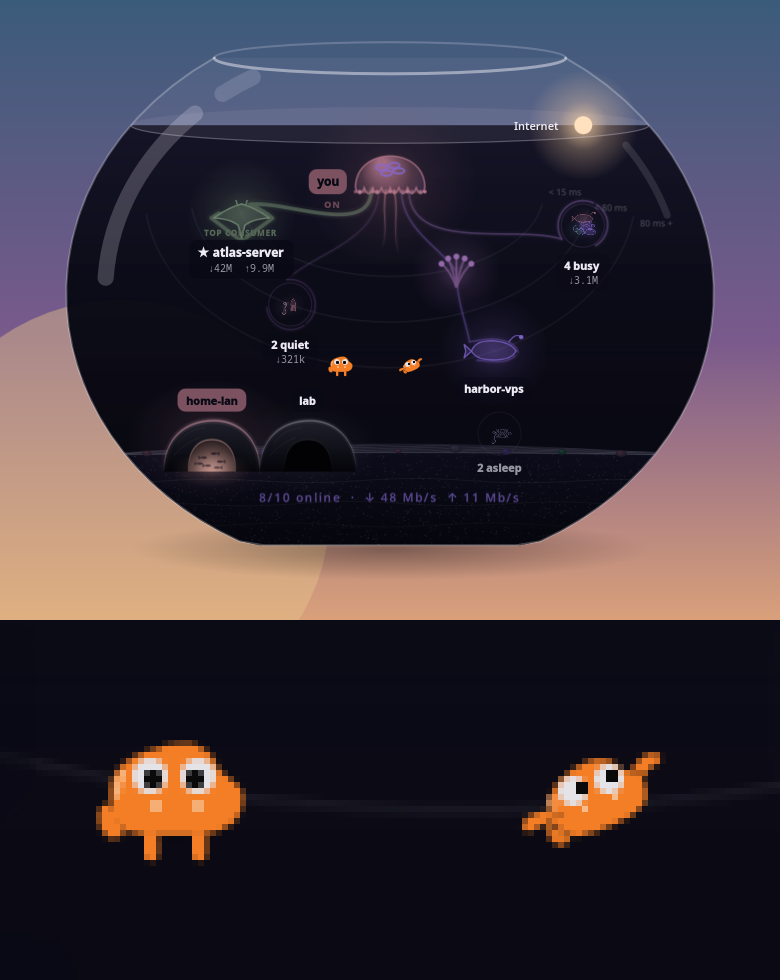
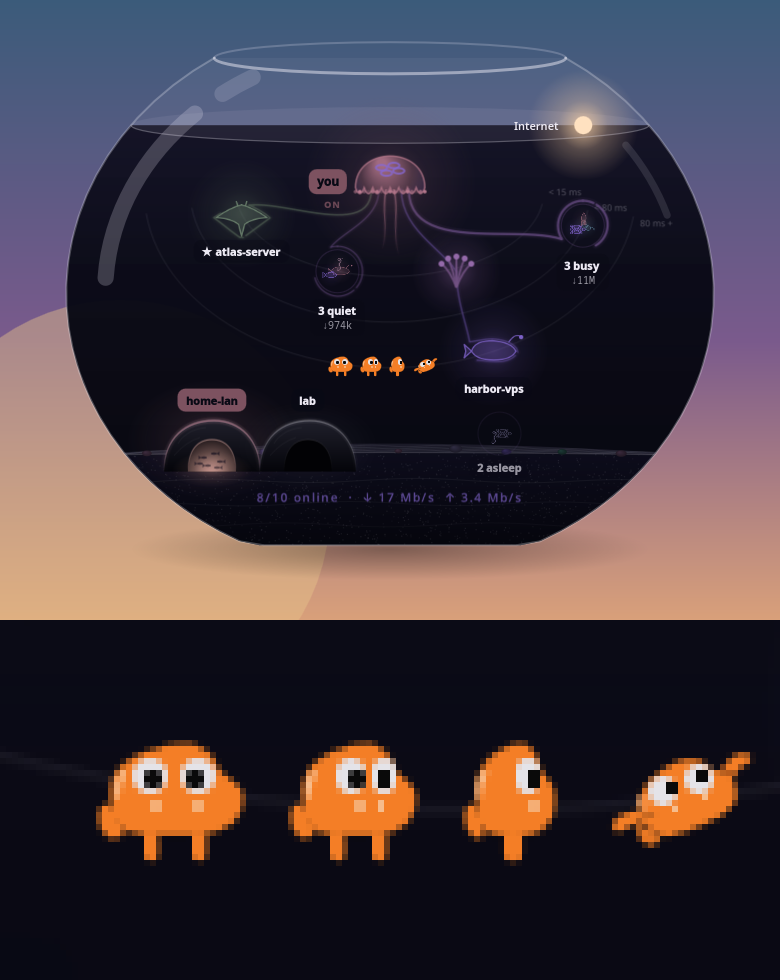
docs(design): Darwin turned views inside the body line, profile legs, 25 px variants, one 4x scale, four views in the three scenes (NAK-353)

diff --git a/docs/design/darwin/build.py b/docs/design/darwin/build.py
@@ -52,11 +52,10 @@ def chain(pts):
     return d
 
 
-def outline(pts, centre, a0, harmonics, xs=lambda x: x):
-    """Smooth closed outline from the measured rays. The 48 radii are a
-    periodic function of the angle: keeping only its low harmonics removes the
-    1 px wobble of the measurement, and 24 anchors with analytic tangents give
-    one continuous curve with no corner (see README, Smoothness)."""
+def radial(pts, centre, a0, harmonics, xs=lambda x: x):
+    """The measured rays as a smooth closed curve: the 48 radii are a periodic
+    function of the angle, and keeping only its low harmonics removes the 1 px
+    wobble of the measurement. Returns the curve as a function of t (turns)."""
     n = len(pts)
     r = [math.hypot(x - centre[0], y - centre[1]) for x, y in pts]
     co = [(sum(r[i] * math.cos(2 * math.pi * k * i / n) for i in range(n)) * (1 if k == 0 else 2) / n,
@@ -74,6 +73,13 @@ def outline(pts, centre, a0, harmonics, xs=lambda x: x):
         e = 1e-3  # xs is piecewise linear: its slope is read numerically
         return xs(x), y, dx * (xs(x + e) - xs(x - e)) / (2 * e), dy
 
+    return at
+
+
+def outline(pts, centre, a0, harmonics, xs=lambda x: x):
+    """Path of the smooth outline: 24 anchors with analytic tangents give one
+    continuous curve with no corner (see README, Smoothness)."""
+    at = radial(pts, centre, a0, harmonics, xs)
     m = 24
     p = [at(i / m) for i in range(m + 1)]
     d = "M%.1f %.1f" % p[0][:2]
@@ -122,6 +128,16 @@ DEPTH = 0.6
 YAW = {"front": 0, "three-quarter": 40, "profile": 90}
 
 
+def right_edge(at, y):
+    """Rightmost x of a closed curve at height y (2000 samples, 1.5 px band)."""
+    return max(p[0] for p in (at(i / 2000) for i in range(2000)) if abs(p[1] - y) < 1.5)
+
+
+# Face parts of the turned views stay this far inside the body line, so that a
+# full stroke width of body shows between them and the outline.
+INSET = 2 * STROKE
+
+
 def lashes(cx, cy, rx, ry, angles):
     """Short ticks leaving the eye outline at the given angles (degrees)."""
     d = ""
@@ -154,9 +170,11 @@ def front(small=False, view="front"):
     s = 'stroke="%s" stroke-width="%d" stroke-linecap="round" stroke-linejoin="round"' % (INK, STROKE)
     leg = '<path d="M%.1f 455v104a35 35 0 0 0 70 0v-104z" fill="%s" %s/>'
     fin = [(xs(x), y) for x, y in FIN]
+    # Far leg first: the near one overlaps it when the body turns. In profile
+    # both legs are on the view axis: the far one only shows behind the near.
+    legs = (xs(CENTRE[0]) - 57, xs(CENTRE[0]) - 35) if view == "profile" else (xs(470), xs(230))
     base = [
-        # Far leg first: the near one overlaps it when the body turns.
-        leg % (xs(470), BODY, s), leg % (xs(230), BODY, s),
+        leg % (legs[0], BODY, s), leg % (legs[1], BODY, s),
         '<path d="%s" fill="%s" %s/>' % (outline(BODY_PTS, CENTRE, 0, 12, xs), BODY, s),
         '<path d="M%.1f %.1f%s" fill="%s" %s/>' % (fin[0] + ("".join(
             "C" + " ".join("%.1f %.1f" % p for p in fin[i:i + 3]) for i in range(1, len(fin), 3)), BODY, s)),
@@ -183,29 +201,46 @@ def front(small=False, view="front"):
         # Every face part of the front view, moved onto the turned surface:
         # the near eye keeps almost its width, the far one narrows.
         (lx, lk), (rx, rk) = face(269.5), face(495.5)
+        # The far eye is pulled back until it clears the body line over its
+        # whole height; its pupil, brow and cheek move with it.
+        at = radial(BODY_PTS, CENTRE, 0, 12, xs)
+        far = min(0, min(right_edge(at, y) - INSET - rx - 90 * rk * math.sqrt(1 - ((y - 173) / 86.5) ** 2)
+                         for y in range(90, 260, 5)))
+        rx += far
         detail += [
             '<ellipse cx="%.1f" cy="184.5" rx="%.1f" ry="90" fill="%s" %s/>' % (lx, 96 * lk, WHITE, s),
             '<ellipse cx="%.1f" cy="173" rx="%.1f" ry="86.5" fill="%s" %s/>' % (rx, 90 * rk, WHITE, s),
             '<ellipse cx="%.1f" cy="188" rx="%.1f" ry="47" fill="%s"/>' % (face(285)[0] + 6, 47 * lk, INK),
-            '<ellipse cx="%.1f" cy="177" rx="%.1f" ry="47" fill="%s"/>' % (face(484)[0] + 4, 47 * rk, INK),
-            '<path d="%s%s" fill="none" %s/>' % (lashes(lx, 184.5, 96 * lk, 90, (215, 195, 178)),
-                                                 lashes(rx, 173, 90 * rk, 86.5, (-58, -35, -15)), thin),
-            '<path d="%s%s" fill="%s"/>' % (blob(fx(BROW_L)), blob(fx(BROW_R)), INK),
-            cheek(face(286)[0], 314, 63, 203, 118, 1), cheek(face(503)[0], 301, 50, -30, 62, 0),
+            '<ellipse cx="%.1f" cy="177" rx="%.1f" ry="47" fill="%s"/>' % (face(484)[0] + 4 + far, 47 * rk, INK),
+            # The far eye's lashes are on the side turned away: hidden. The far
+            # brow wraps round the head and stops at the body line.
+            '<path d="%s" fill="none" %s/>' % (lashes(lx, 184.5, 96 * lk, 90, (215, 195, 178)), thin),
+            '<clipPath id="body"><path d="%s"/></clipPath>' % outline(BODY_PTS, CENTRE, 0, 12, xs),
+            '<path d="%s" fill="%s"/><path d="%s" fill="%s" clip-path="url(#body)"/>'
+            % (blob(fx(BROW_L)), INK, blob([(x + far, y) for x, y in fx(BROW_R)]), INK),
+            cheek(face(286)[0], 314, 63, 203, 118, 1), cheek(face(503)[0] + far, 301, 50, -30, 62, 0),
             '<path d="M%.1f 320Q%.1f 352 %.1f 306" fill="none" %s/>' % (face(346)[0], face(398)[0], face(448)[0], s),
             '<circle cx="%.1f" cy="307" r="30" fill="%s"/>' % (face(290)[0], LIGHT),
-            '<ellipse cx="%.1f" cy="297" rx="%.1f" ry="30" fill="%s"/>' % (face(492)[0], 30 * max(rk, 0.7), LIGHT),
+            '<ellipse cx="%.1f" cy="297" rx="%.1f" ry="30" fill="%s"/>' % (face(492)[0] + far, 30 * max(rk, 0.7), LIGHT),
         ]
     else:
         # Profile: one eye, one cheek, the mouth ends on the outline. The eye
         # keeps its height and takes the body's own narrowing (DEPTH).
         edge = xs(712)
-        ex, erx = xs(640) - 10 - 96 * DEPTH, 96 * DEPTH  # 640: the outline at eye height
+        at = radial(BODY_PTS, CENTRE, 0, 12, xs)
+        erx = 96 * DEPTH
+        # The eye sits as far forward as the body line allows over its whole
+        # height, the brow likewise over its own.
+        ex = min(right_edge(at, y) - INSET - erx * math.sqrt(1 - ((y - 184.5) / 90) ** 2)
+                 for y in range(100, 270, 5))
+        brow = [(ex + (x - 269.5) * DEPTH, y) for x, y in BROW_L]
+        back = min(0, min(right_edge(at, y) - INSET - x for x, y in brow))
+        brow = [(x + back, y) for x, y in brow]
         detail += [
             '<ellipse cx="%.1f" cy="184.5" rx="%.1f" ry="90" fill="%s" %s/>' % (ex, erx, WHITE, s),
             '<ellipse cx="%.1f" cy="188" rx="%.1f" ry="47" fill="%s"/>' % (ex + 16, 47 * 0.75, INK),
             '<path d="%s" fill="none" %s/>' % (lashes(ex, 184.5, erx, 90, (215, 195, 178)), thin),
-            '<path d="%s" fill="%s"/>' % (blob([(ex + (x - 269.5) * DEPTH, y) for x, y in BROW_L]), INK),
+            '<path d="%s" fill="%s"/>' % (blob(brow), INK),
             cheek(ex + 10, 314, 50, 203, 118, 1),
             '<path d="M%.1f 322Q%.1f 340 %.1f 312" fill="none" %s/>' % (edge - 78, edge - 46, edge - 18, s),
             '<circle cx="%.1f" cy="307" r="26" fill="%s"/>' % (ex + 12, LIGHT),
@@ -257,16 +292,16 @@ def swim(small=False):
     return "\n".join(base if small else base + detail)
 
 
-def optical(view, w, h, box, snapped):
+def optical(view, w, h, box, base, snapped):
     """25 px wide variant for the real widget size: the silhouette is the
     drawing scaled down, the parts that would fall between pixels (eyes,
     pupils, cheeks, legs) are redrawn on whole pixels, and the lashes, brows
     and mouth, thinner than a third of a pixel there, are left out."""
-    k = 25 / box[2]
+    k = 25 / box[2]  # box[2]: the width that maps to 25 px, the same for every view of one space
     return ('<svg xmlns="http://www.w3.org/2000/svg" viewBox="0 0 %d %d" width="%d" height="%d">\n'
             '<title>Darwin, %s, 25 px optical size</title>\n'
             '<g transform="scale(%.5f) translate(%d %d)">\n%s\n</g>\n%s\n</svg>\n'
-            % (w, h, w, h, view, k, -box[0], -box[1], (front if view == "front view" else swim)(True), snapped))
+            % (w, h, w, h, view, k, -box[0], -box[1], base, snapped))
 
 
 def px(x, y, w, h, fill, r=0):
@@ -277,6 +312,14 @@ FRONT_25 = "".join([px(8, 15, 2, 5, BODY, 1), px(16, 15, 2, 5, BODY, 1),
                     px(6, 3, 6, 6, WHITE, 3), px(14, 3, 6, 6, WHITE, 3),
                     px(8, 5, 3, 3, INK, 1), px(15, 5, 3, 3, INK, 1),
                     px(9, 10, 2, 2, LIGHT, 1), px(16, 10, 2, 2, LIGHT, 1)])
+# Turned views at the front view's scale (25 / 745): 22 and 17 px wide. One
+# pixel of body is kept between the two eyes of the three-quarter view.
+THREE_QUARTER_25 = "".join([px(7, 15, 2, 5, BODY, 1), px(14, 15, 2, 5, BODY, 1),
+                            px(8, 3, 5, 6, WHITE, 2.5), px(14, 3, 4, 6, WHITE, 2),
+                            px(10, 5, 3, 3, INK, 1), px(15, 5, 2, 3, INK),
+                            px(11, 10, 2, 2, LIGHT, 1), px(15, 10, 1, 2, LIGHT)])
+PROFILE_25 = "".join([px(7, 15, 2, 5, BODY, 1), px(8, 15, 2, 5, BODY, 1),
+                      px(9, 3, 4, 6, WHITE, 2), px(11, 5, 2, 3, INK), px(11, 10, 2, 2, LIGHT, 1)])
 # One pixel of body is kept between the two eyes so they do not merge; the
 # pupils are square so that they stay solid ink on whole pixels.
 SWIM_25 = "".join([px(7, 5, 5, 5, WHITE, 2.5), px(13, 3, 5, 5, WHITE, 2.5),
@@ -297,5 +340,9 @@ if __name__ == "__main__":
     open(out + "/darwin-swim.svg", "w").write(
         '<svg xmlns="http://www.w3.org/2000/svg" viewBox="0 0 680 480" width="680" height="480">\n'
         '<title>Darwin, side view, swimming</title>\n%s\n</svg>\n' % swim())
-    open(out + "/darwin-front-25.svg", "w").write(optical("front view", 25, 21, (-12, -8, 745), FRONT_25))
-    open(out + "/darwin-swim-25.svg", "w").write(optical("swimming view", 25, 18, (0, 0, 680), SWIM_25))
+    open(out + "/darwin-front-25.svg", "w").write(optical("front view", 25, 21, (-12, -8, 745), front(True), FRONT_25))
+    open(out + "/darwin-three-quarter-25.svg", "w").write(
+        optical("three-quarter view", 22, 21, (-12, -8, 745), front(True, "three-quarter"), THREE_QUARTER_25))
+    open(out + "/darwin-profile-25.svg", "w").write(
+        optical("profile view", 17, 21, (-12, -8, 745), front(True, "profile"), PROFILE_25))
+    open(out + "/darwin-swim-25.svg", "w").write(optical("swimming view", 25, 18, (0, 0, 680), swim(True), SWIM_25))

diff --git a/docs/design/darwin/README.md b/docs/design/darwin/README.md
@@ -7,23 +7,26 @@ approved, and not used by the widget.
 |---|---|---|
 | `darwin-front.svg` | front | 729 px wide, same as `components/assets/darwin/body.png`; the viewBox adds 12 px on the left for the tail fin, 4 px on the right, 8 px on top |
 | `darwin-swim.svg` | swimming, turned | 680 x 480 |
-| `darwin-front-25.svg`, `darwin-swim-25.svg` | optical variants for the real widget size | 25 x 21 and 25 x 18, one unit = one pixel |
+| `darwin-three-quarter.svg`, `darwin-profile.svg` | three-quarter and profile, deduced from the front view | the front space, 660 and 500 wide |
+| `darwin-front-25.svg`, `darwin-three-quarter-25.svg`, `darwin-profile-25.svg`, `darwin-swim-25.svg` | optical variants for the real widget size | 25 x 21, 22 x 21, 17 x 21 and 25 x 18, one unit = one pixel |
 | `*@1x.png` | the optical variants rendered 1:1 (25 px wide, `unit` 0.034 in `Goldfish.qml`) | |
-| `*@4x.png` | 100 px wide | |
-| `scene-dark.png`, `scene-light.png`, `scene-wallpaper.png` | both views at real size in the real desktop bowl (`scripts/preview/render.sh desk`, `desk-light`, and `desk` with a made-up warm wallpaper palette in the preview `Theme`), composited at +328+356 and +398+357, with a 6x unsmoothed zoom below | |
+| `*@4x.png` | four times the real size: front and swimming 100 px wide, three-quarter 89, profile 67 (one scale, 100 / 745, for the three views of the front space) | |
+| `scene-dark.png`, `scene-light.png`, `scene-wallpaper.png` | the four views at real size in the real desktop bowl (`scripts/preview/render.sh desk`, `desk-light`, and `desk` with a made-up warm wallpaper palette in the preview `Theme`), composited at +328+356 (front), +360+356 (three-quarter), +389+356 (profile) and +413+357 (swimming), with a 6x unsmoothed zoom below | |
 
 Rebuild:
 
 ```sh
 python3 build.py .
-for v in front swim; do
-  magick -background none darwin-$v-25.svg darwin-$v@1x.png
-  magick -background none darwin-$v.svg -resize 100x darwin-$v@4x.png
+for v in front:100 three-quarter:89 profile:67 swim:100; do
+  magick -background none darwin-${v%:*}-25.svg darwin-${v%:*}@1x.png
+  magick -background none darwin-${v%:*}.svg -resize ${v#*:}x darwin-${v%:*}@4x.png
 done
 # scenes: <mode> is desk, desk-light, or desk with the wallpaper palette below
 ../../../scripts/preview/render.sh <mode> top.png
 magick top.png darwin-front@1x.png -geometry +328+356 -composite \
-  darwin-swim@1x.png -geometry +398+357 -composite top.png
+  darwin-three-quarter@1x.png -geometry +360+356 -composite \
+  darwin-profile@1x.png -geometry +389+356 -composite \
+  darwin-swim@1x.png -geometry +413+357 -composite top.png
 magick top.png \( top.png -crop 130x60+312+336 +repage -filter point -resize 600% \) \
   -append -strip scene-<name>.png
 ```
@@ -159,6 +162,19 @@ pupils, cheeks and both brows sit on the reference ink.
   and colours are the front ones; face parts are the front ones moved onto the
   turned surface (far eye narrower). In profile one eye, one cheek and the end
   of the mouth are shown.
-- Not done yet: 25 px optical variants of the two new views;
-  `scene-wallpaper.png` still shows the previous outline (dark and light are
-  re-composited); the far brow of the three-quarter view touches the outline.
+- **Turned views, second pass (score 83, 2026-10-10).** Three-quarter: the far
+  eye is pulled back until it clears the body line by two stroke widths over
+  its whole height (computed on the outline, `right_edge()` in `build.py`), its
+  pupil, cheek and brow move with it, the far brow is cut at the body line and
+  the far lashes, on the side turned away, are not drawn. Profile: the eye and
+  the brow are set the same way, two stroke widths inside the body line; both
+  legs are on the view axis, the far one shows 22 px behind the near one.
+- 25 px optical variants of both turned views, at the front view's scale
+  (22 and 17 px wide); the four views are in the three scenes. Contrast
+  measured again on every backdrop pixel of the 130 x 60 zone outside the four
+  drawings (6006 pixels per scene): body 6.25 to 7.18:1 (dark), 6.63 to 7.44:1
+  (light), 6.23 to 7.19:1 (wallpaper theme); eye white 13.04 to 15.57:1;
+  outline 1.00 to 1.19:1 (invisible, the body carries the shape).
+- Not done: the 0.6 depth ratio is an assumption; the profile keeps the front
+  tail fin seen flat (a real profile would show it edge-on or fanned, no
+  reference says which).
